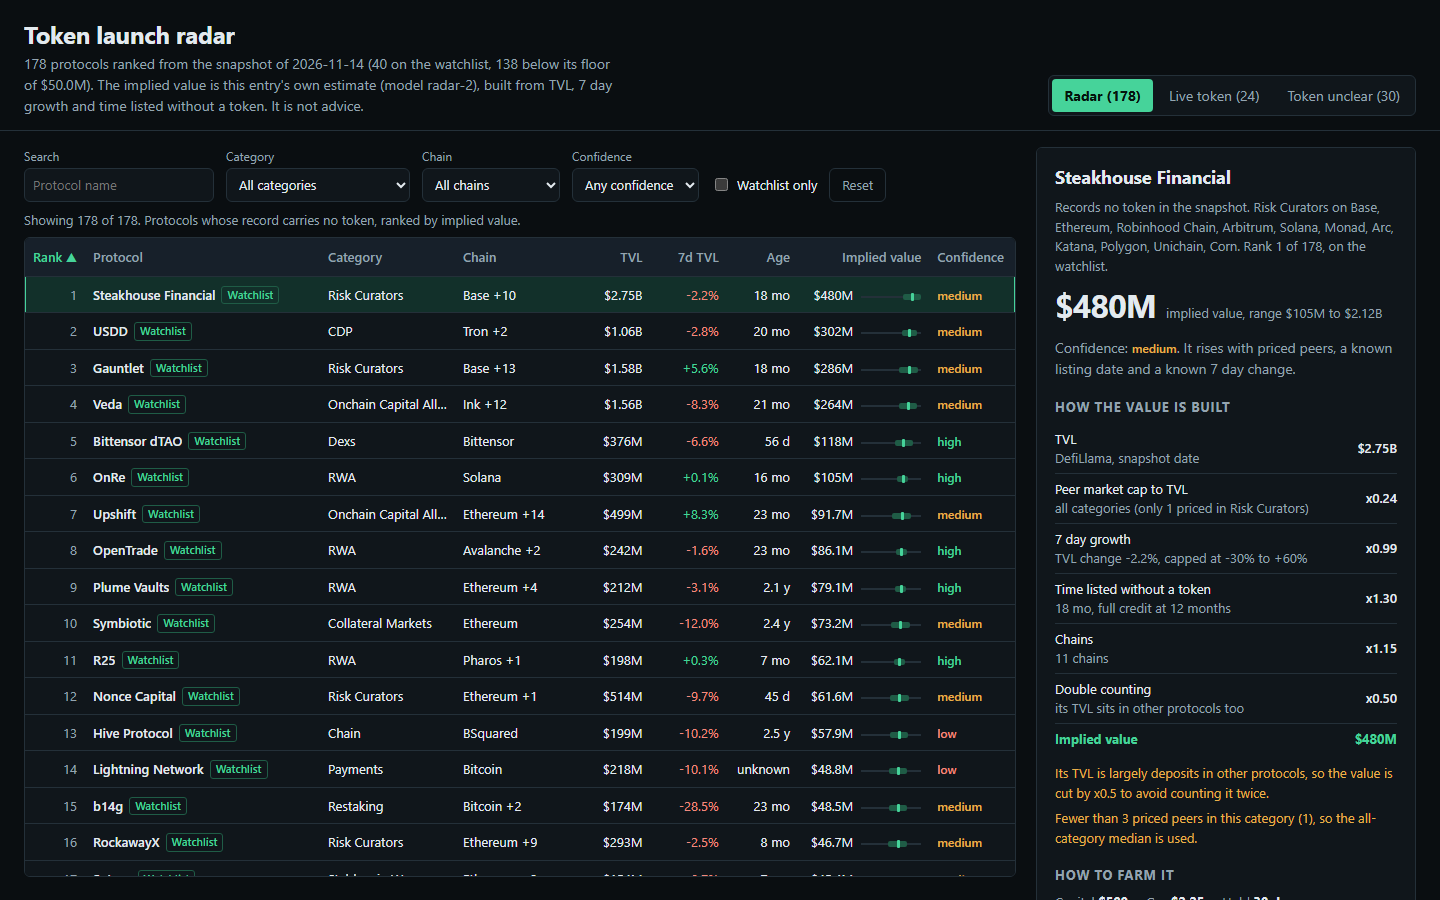
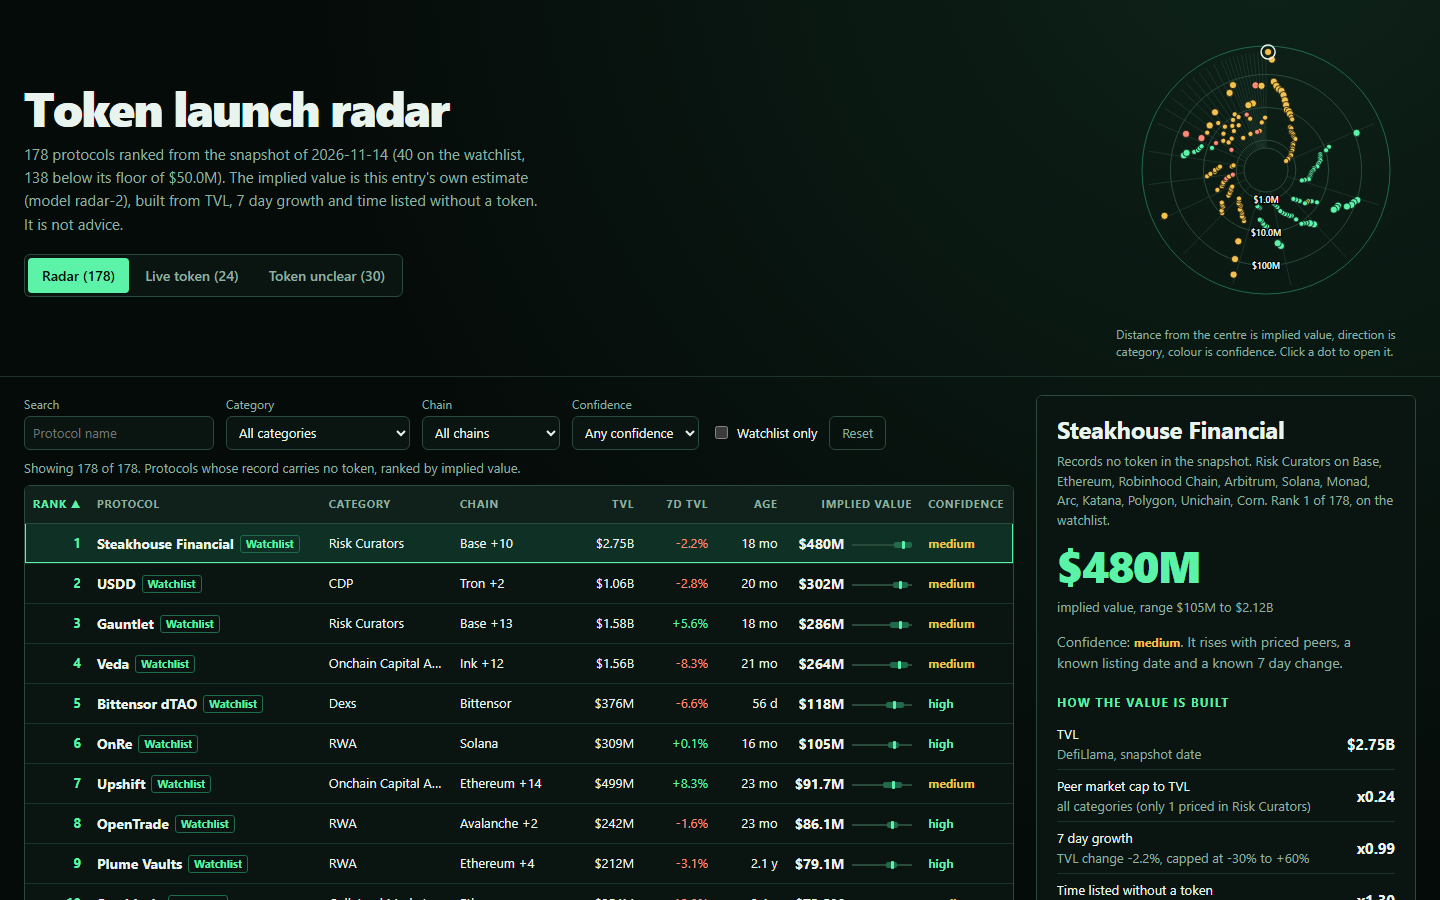
Give the dashboard a radar scope, a phosphor palette and stronger type

diff --git a/dashboard/app.css b/dashboard/app.css
@@ -1,58 +1,75 @@
 :root {
   color-scheme: dark;
-  --bg: #0a0e11;
-  --panel: #10161b;
-  --raised: #17202a;
-  --line: #243039;
-  --text: #e3eaef;
-  --muted: #94a4b0;
-  --accent: #46d39a;
-  --accent-ink: #04140d;
-  --warn: #e8b04a;
-  --bad: #f08a7e;
+  --bg: #050b09;
+  --panel: #0a1511;
+  --raised: #10201a;
+  --line: #1b3329;
+  --line-strong: #2a4a3b;
+  --text: #e8f4ed;
+  --muted: #8fb0a0;
+  --accent: #5cf2a8;
+  --accent-dim: #1f6b4b;
+  --accent-ink: #03150d;
+  --warn: #f2c14e;
+  --bad: #ff8a78;
   --r: 6px;
   --font: system-ui, -apple-system, "Segoe UI", Roboto, "Helvetica Neue", Arial, sans-serif;
   accent-color: var(--accent);
-  scrollbar-color: #2c3944 var(--bg);
+  scrollbar-color: var(--line-strong) var(--bg);
 }
 * { box-sizing: border-box; }
 html { background: var(--bg); }
-body { margin: 0; font: 14px/1.5 var(--font); color: var(--text); background: var(--bg); font-variant-numeric: tabular-nums; }
+body { margin: 0; font: 14px/1.5 var(--font); color: var(--text); background: var(--bg) radial-gradient(circle at 88% -5%, rgba(92, 242, 168, 0.1), transparent 42%); font-variant-numeric: tabular-nums; }
 ::selection { background: var(--accent); color: var(--accent-ink); }
 .muted { color: var(--muted); }
 .skip { position: absolute; left: -999px; top: 8px; background: var(--accent); color: var(--accent-ink); padding: 6px 10px; border-radius: var(--r); z-index: 5; }
 .skip:focus { left: 8px; }
 :focus-visible { outline: 2px solid var(--accent); outline-offset: 2px; }
 
-h1 { margin: 0; font-size: 1.5rem; line-height: 1.2; letter-spacing: -0.01em; font-weight: 650; }
-h2 { margin: 0 0 8px; font-size: 1.125rem; line-height: 1.3; font-weight: 650; }
-h3 { margin: 20px 0 8px; font-size: 0.8125rem; line-height: 1.3; font-weight: 650; color: var(--muted); text-transform: uppercase; letter-spacing: 0.06em; }
+h1 { margin: 0; font-size: 3rem; line-height: 1; letter-spacing: -0.035em; font-weight: 800; }
+h2 { margin: 0 0 8px; font-size: 1.5rem; line-height: 1.15; letter-spacing: -0.015em; font-weight: 750; }
+h3 { margin: 22px 0 8px; font-size: 0.75rem; line-height: 1.3; font-weight: 700; color: var(--accent); text-transform: uppercase; letter-spacing: 0.1em; }
 
-.top { display: flex; flex-wrap: wrap; align-items: flex-end; justify-content: space-between; gap: 12px 24px; padding: 20px 24px 14px; border-bottom: 1px solid var(--line); }
-.top p { margin: 4px 0 0; max-width: 78ch; }
-.tabs { display: flex; gap: 4px; background: var(--panel); padding: 3px; border-radius: var(--r); border: 1px solid var(--line); }
-.tabs button { font: inherit; color: var(--muted); background: transparent; border: 0; padding: 6px 12px; border-radius: 4px; cursor: pointer; transition: background 0.15s, color 0.15s; }
+.top { display: grid; grid-template-columns: minmax(0, 1fr) auto; align-items: center; gap: 8px 40px; padding: 20px 24px 16px; border-bottom: 1px solid var(--line); }
+.intro p { margin: 12px 0 18px; max-width: 64ch; font-size: 0.9375rem; line-height: 1.55; }
+.tabs { display: inline-flex; gap: 2px; background: var(--panel); padding: 3px; border-radius: var(--r); border: 1px solid var(--line-strong); }
+.tabs button { font: inherit; font-weight: 600; color: var(--muted); background: transparent; border: 0; padding: 7px 14px; border-radius: 4px; cursor: pointer; transition: background 0.15s, color 0.15s; }
 .tabs button:hover { color: var(--text); background: var(--raised); }
-.tabs button[aria-pressed="true"] { background: var(--accent); color: var(--accent-ink); font-weight: 650; }
+.tabs button[aria-pressed="true"] { background: var(--accent); color: var(--accent-ink); }
 
-.layout { display: grid; grid-template-columns: minmax(0, 1fr) 380px; gap: 20px; padding: 16px 24px 24px; align-items: start; }
+.scope { margin: 0; width: 300px; }
+.scope svg { display: block; width: 300px; height: 300px; }
+.scope figcaption { margin-top: 6px; font-size: 0.75rem; line-height: 1.4; max-width: 300px; }
+.scope .ring { fill: none; stroke: var(--line-strong); stroke-width: 1; }
+.scope .ring.outer { stroke: var(--accent-dim); }
+.scope .axis { stroke: var(--line); stroke-width: 1; }
+.scope .lbl { fill: var(--text); font-size: 9px; font-weight: 600; font-family: var(--font); paint-order: stroke; stroke: var(--bg); stroke-width: 3px; pointer-events: none; }
+.scope .b { cursor: pointer; stroke: var(--bg); stroke-width: 0.75; }
+.scope .b.high { fill: var(--accent); }
+.scope .b.medium { fill: var(--warn); }
+.scope .b.low { fill: var(--bad); }
+.scope .b.dim { opacity: 0.18; }
+.scope .b:hover { stroke: var(--text); stroke-width: 1.5; }
+.scope .sel { fill: none; stroke: var(--text); stroke-width: 1.5; pointer-events: none; }
+
+.layout { display: grid; grid-template-columns: minmax(0, 1fr) 380px; gap: 22px; padding: 18px 24px 26px; align-items: start; }
 .pane { min-width: 0; }
 
 .filters { display: flex; flex-wrap: wrap; gap: 10px 12px; align-items: end; margin-bottom: 8px; }
 .filters label { display: grid; gap: 3px; font-size: 0.75rem; color: var(--muted); }
-.filters input[type="search"], .filters select { font: inherit; font-size: 0.8125rem; color: var(--text); background: var(--panel); border: 1px solid var(--line); border-radius: var(--r); padding: 6px 8px; min-width: 120px; height: 34px; }
+.filters input[type="search"], .filters select { font: inherit; font-size: 0.8125rem; color: var(--text); background: var(--panel); border: 1px solid var(--line-strong); border-radius: var(--r); padding: 6px 8px; min-width: 120px; height: 34px; }
 .filters input[type="search"] { min-width: 190px; }
-.filters input:hover, .filters select:hover { border-color: #38485a; }
+.filters input:hover, .filters select:hover { border-color: var(--accent-dim); }
 .filters .check { display: flex; align-items: center; gap: 6px; height: 34px; color: var(--text); font-size: 0.8125rem; }
-.filters button { font: inherit; font-size: 0.8125rem; height: 34px; padding: 0 12px; color: var(--muted); background: transparent; border: 1px solid var(--line); border-radius: var(--r); cursor: pointer; }
-.filters button:hover { color: var(--text); border-color: #38485a; }
+.filters button { font: inherit; font-size: 0.8125rem; height: 34px; padding: 0 12px; color: var(--muted); background: transparent; border: 1px solid var(--line-strong); border-radius: var(--r); cursor: pointer; }
+.filters button:hover { color: var(--text); border-color: var(--accent-dim); }
 .count { margin: 0 0 8px; font-size: 0.8125rem; }
 
-.tablewrap { border: 1px solid var(--line); border-radius: var(--r); background: var(--panel); max-height: 640px; overflow: auto; }
+.tablewrap { border: 1px solid var(--line-strong); border-radius: var(--r); background: var(--panel); max-height: 620px; overflow: auto; }
 table { width: 100%; border-collapse: collapse; font-size: 0.8125rem; }
-th, td { padding: 8px 8px; text-align: left; white-space: nowrap; border-bottom: 1px solid var(--line); }
-th { position: sticky; top: 0; z-index: 1; background: var(--raised); font-weight: 600; color: var(--muted); padding: 0; }
-th button { font: inherit; color: inherit; background: transparent; border: 0; width: 100%; text-align: inherit; padding: 9px 8px; cursor: pointer; font-weight: 600; }
+th, td { padding: 9px 8px; text-align: left; white-space: nowrap; border-bottom: 1px solid var(--line); }
+th { position: sticky; top: 0; z-index: 1; background: var(--raised); font-weight: 700; color: var(--muted); padding: 0; font-size: 0.6875rem; text-transform: uppercase; letter-spacing: 0.07em; border-bottom: 1px solid var(--line-strong); }
+th button { font: inherit; color: inherit; background: transparent; border: 0; width: 100%; text-align: inherit; padding: 10px 8px; cursor: pointer; font-weight: 700; text-transform: inherit; letter-spacing: inherit; }
 th button:hover { color: var(--text); }
 th[aria-sort="ascending"] button, th[aria-sort="descending"] button { color: var(--accent); }
 th.num, td.num { text-align: right; }
@@ -60,52 +77,53 @@ th.num button { text-align: right; }
 tbody tr { cursor: pointer; transition: background 0.12s; }
 tbody tr:hover { background: var(--raised); }
 tbody tr:focus-visible { outline-offset: -2px; }
-tbody tr[aria-selected="true"] { background: #12302a; box-shadow: inset 0 0 0 1px var(--accent); }
-td.name { font-weight: 600; max-width: 230px; overflow: hidden; text-overflow: ellipsis; }
-td.rank { color: var(--muted); width: 1%; }
-.tag { display: inline-block; margin-left: 6px; padding: 0 5px; font-size: 0.6875rem; font-weight: 600; color: var(--accent); border: 1px solid #1f5c46; border-radius: 3px; vertical-align: 1px; }
+tbody tr[aria-selected="true"] { background: #0f3024; box-shadow: inset 0 0 0 1px var(--accent); }
+td.name { font-weight: 700; font-size: 0.875rem; max-width: 230px; overflow: hidden; text-overflow: ellipsis; }
+td.rank { color: var(--accent); font-weight: 700; width: 1%; }
+.tag { display: inline-block; margin-left: 6px; padding: 0 5px; font-size: 0.6875rem; font-weight: 700; color: var(--accent); border: 1px solid var(--accent-dim); border-radius: 3px; vertical-align: 1px; }
 .up { color: var(--accent); }
 .down { color: var(--bad); }
-.conf { font-size: 0.75rem; font-weight: 600; }
+.conf { font-size: 0.75rem; font-weight: 700; }
 .conf.high { color: var(--accent); }
 .conf.medium { color: var(--warn); }
 .conf.low { color: var(--bad); }
+td.val { font-weight: 700; font-size: 0.875rem; }
 .range { display: inline-block; position: relative; width: 60px; height: 8px; vertical-align: middle; margin-left: 8px; }
-.range::before { content: ""; position: absolute; left: 0; right: 0; top: 3px; height: 2px; background: var(--line); }
-.range i { position: absolute; top: 1px; height: 6px; background: #1f5c46; border-radius: 2px; }
+.range::before { content: ""; position: absolute; left: 0; right: 0; top: 3px; height: 2px; background: var(--line-strong); }
+.range i { position: absolute; top: 1px; height: 6px; background: var(--accent-dim); border-radius: 2px; }
 .range b { position: absolute; top: 0; width: 3px; height: 8px; margin-left: -1px; background: var(--accent); border-radius: 1px; }
 .empty { padding: 28px 16px; color: var(--muted); }
 .empty strong { color: var(--text); display: block; margin-bottom: 4px; }
+td.cat, td.chain { max-width: 130px; overflow: hidden; text-overflow: ellipsis; }
 
-.detail { position: sticky; top: 12px; max-height: calc(100vh - 24px); overflow: auto; background: var(--panel); border: 1px solid var(--line); border-radius: var(--r); padding: 18px; }
-.detail .status { margin: 0 0 12px; color: var(--muted); font-size: 0.8125rem; }
+.detail { position: sticky; top: 12px; max-height: calc(100vh - 24px); overflow: auto; background: var(--panel); border: 1px solid var(--line-strong); border-radius: var(--r); padding: 20px; }
+.detail .status { margin: 0 0 14px; color: var(--muted); font-size: 0.8125rem; }
 .value { display: flex; align-items: baseline; gap: 10px; flex-wrap: wrap; margin: 4px 0 2px; }
-.value strong { font-size: 2rem; line-height: 1.1; font-weight: 700; letter-spacing: -0.02em; }
+.value strong { font-size: 2.75rem; line-height: 1; font-weight: 800; letter-spacing: -0.03em; color: var(--accent); }
 .value span { color: var(--muted); font-size: 0.8125rem; }
 .calc { width: 100%; font-size: 0.8125rem; }
-.calc td { padding: 5px 0; white-space: normal; border-bottom: 1px solid var(--line); }
-.calc td:last-child { text-align: right; font-weight: 600; }
-.calc tr.total td { border-bottom: 0; color: var(--accent); font-weight: 700; }
+.calc td { padding: 6px 0; white-space: normal; border-bottom: 1px solid var(--line); }
+.calc td:last-child { text-align: right; font-weight: 700; font-size: 0.9375rem; }
+.calc tr.total td { border-bottom: 0; color: var(--accent); font-weight: 800; padding-top: 10px; }
 .flags { margin: 10px 0 0; padding: 0; list-style: none; display: grid; gap: 6px; font-size: 0.8125rem; color: var(--warn); }
 .steps { margin: 0; padding: 0 0 0 20px; display: grid; gap: 9px; font-size: 0.8125rem; line-height: 1.5; }
-.steps li::marker { color: var(--accent); font-weight: 700; }
-.totals { display: flex; gap: 18px; flex-wrap: wrap; margin: 4px 0 0; font-size: 0.8125rem; color: var(--muted); }
-.totals b { color: var(--text); }
+.steps li::marker { color: var(--accent); font-weight: 800; }
+.totals { display: flex; gap: 18px; flex-wrap: wrap; margin: 4px 0 10px; font-size: 0.8125rem; color: var(--muted); }
+.totals b { color: var(--text); font-size: 1rem; }
 
-.method { margin: 0 24px 40px; padding: 20px; background: var(--panel); border: 1px solid var(--line); border-radius: var(--r); display: grid; grid-template-columns: minmax(0, 1fr) minmax(0, 1fr); gap: 8px 32px; }
+.method { margin: 0 24px 40px; padding: 22px; background: var(--panel); border: 1px solid var(--line-strong); border-radius: var(--r); display: grid; grid-template-columns: minmax(0, 1fr) minmax(0, 1fr); gap: 8px 36px; }
 .method > div > p { margin: 0 0 8px; max-width: 70ch; }
 .method code { font-family: ui-monospace, "Cascadia Mono", Consolas, monospace; font-size: 0.8125rem; color: var(--accent); }
 .method .peer { width: 100%; font-size: 0.8125rem; }
 .method .peer td, .method .peer th { padding: 4px 0; position: static; background: none; white-space: normal; }
-.method .peer th { text-align: left; color: var(--muted); font-weight: 600; }
+.method .peer th { text-align: left; color: var(--muted); font-weight: 700; }
 .method .peer td:not(:first-child), .method .peer th:not(:first-child) { text-align: right; }
 
 @media (max-width: 1000px) {
+  .top { grid-template-columns: minmax(0, 1fr); padding: 18px 14px 14px; }
+  h1 { font-size: 2.25rem; }
   .layout { grid-template-columns: minmax(0, 1fr); padding: 12px 14px 20px; }
   .detail { position: static; max-height: none; }
-  .top { padding: 16px 14px 12px; }
   .method { grid-template-columns: minmax(0, 1fr); margin: 0 14px 28px; }
 }
 @media (prefers-reduced-motion: reduce) { * { transition: none !important; } }
-
-td.cat, td.chain { max-width: 130px; overflow: hidden; text-overflow: ellipsis; }

diff --git a/dashboard/app.js b/dashboard/app.js
@@ -60,6 +60,59 @@
   const lMax = Math.log10(Math.max(...highs));
   const pos = (v) => (100 * (Math.log10(Math.max(v, 1)) - lMin)) / (lMax - lMin || 1);
 
+  // ---- the radar scope: one dot per ranked protocol -------------------------------------------------
+  // Direction is the category (each category owns a slice as wide as its share of rows), distance from the
+  // centre is the implied value on a log scale. Positions come from the data only, so they never move when
+  // a filter changes: filtered-out dots just dim.
+  const esc = (s) => String(s).replace(/[&<>"]/g, (c) => ({ '&': '&amp;', '<': '&lt;', '>': '&gt;', '"': '&quot;' }[c]));
+  const SC = { c: 150, in: 22, out: 118 };
+  const scope = (function () {
+    const key = (r) => r.category || 'No category';
+    const counts = new Map();
+    R.rows.forEach((r) => counts.set(key(r), (counts.get(key(r)) || 0) + 1));
+    const cats = [...counts.keys()].sort((a, b) => counts.get(b) - counts.get(a) || a.localeCompare(b));
+    const vals = R.rows.map((r) => Math.log10(r.implied_value_usd));
+    const lo = Math.min(...vals), hi = Math.max(...vals);
+    const rad = (v) => SC.in + ((Math.log10(v) - lo) / (hi - lo || 1)) * (SC.out - SC.in);
+    const pts = new Map();
+    const seps = [];
+    let start = -Math.PI / 2;
+    for (const c of cats) {
+      const mem = R.rows.filter((r) => key(r) === c);
+      const width = (2 * Math.PI * mem.length) / R.rows.length;
+      mem.forEach((r, i) => {
+        const a = start + ((i + 0.5) / mem.length) * width;
+        pts.set(r.slug, [SC.c + rad(r.implied_value_usd) * Math.cos(a), SC.c + rad(r.implied_value_usd) * Math.sin(a)]);
+      });
+      seps.push(start);
+      start += width;
+    }
+    return { pts, seps, rad, lo, hi };
+  })();
+
+  function drawScope(list) {
+    const on = new Set(list.map((r) => r.slug));
+    let s = '<svg viewBox="0 0 300 300" focusable="false">';
+    for (const a of scope.seps) s += `<line class="axis" x1="${(SC.c + SC.in * Math.cos(a)).toFixed(1)}" y1="${(SC.c + SC.in * Math.sin(a)).toFixed(1)}" x2="${(SC.c + SC.out * Math.cos(a)).toFixed(1)}" y2="${(SC.c + SC.out * Math.sin(a)).toFixed(1)}"/>`;
+    s += `<circle class="ring" cx="${SC.c}" cy="${SC.c}" r="${SC.in}"/><circle class="ring outer" cx="${SC.c}" cy="${SC.c}" r="${SC.out + 6}"/>`;
+    let labels = '';
+    for (let d = Math.ceil(scope.lo); d <= Math.floor(scope.hi); d++) {
+      const r = scope.rad(Math.pow(10, d));
+      s += `<circle class="ring" cx="${SC.c}" cy="${SC.c}" r="${r.toFixed(1)}"/>`;
+      labels += `<text class="lbl" x="${SC.c}" y="${(SC.c + r + 3).toFixed(1)}" text-anchor="middle">${money(Math.pow(10, d))}</text>`;
+    }
+    const dot = (r, dim) => {
+      const p = scope.pts.get(r.slug);
+      return `<circle class="b ${r.confidence}${dim ? ' dim' : ''}" data-slug="${esc(r.slug)}" cx="${p[0].toFixed(1)}" cy="${p[1].toFixed(1)}" r="${r.in_watchlist ? 3.6 : 2.6}"><title>${esc(r.name)}, ${money(r.implied_value_usd)}</title></circle>`;
+    };
+    s += R.rows.filter((r) => !on.has(r.slug)).map((r) => dot(r, true)).join('');
+    s += R.rows.filter((r) => on.has(r.slug)).map((r) => dot(r, false)).join('');
+    const sp = scope.pts.get(S.sel);
+    if (sp && S.view === 'radar') s += `<circle class="sel" cx="${sp[0].toFixed(1)}" cy="${sp[1].toFixed(1)}" r="7"/>`;
+    $('scope').innerHTML = s + labels + '</svg>';
+    $('scopebox').hidden = S.view !== 'radar';
+  }
+
   const VIEWS = {
     radar: { label: 'Radar', rows: R.rows, note: 'Protocols whose record carries no token, ranked by implied value.' },
     live: { label: 'Live token', rows: R.live, note: 'Protocols whose token already trades. Shown at the market cap, never ranked by the model.' },
@@ -136,7 +189,7 @@
       case 'tvl': return h('td', { class: 'num' }, money(r.tvl_usd));
       case 'change': return h('td', { class: 'num ' + (r.change_7d > 0 ? 'up' : r.change_7d < 0 ? 'down' : '') }, pct(r.change_7d));
       case 'age': return h('td', { class: 'num' }, age(r.age_days));
-      case 'implied': return h('td', { class: 'num' }, money(r.implied_value_usd), h('span', { class: 'range', title: `${money(r.implied_low_usd)} to ${money(r.implied_high_usd)}` }, h('i', { style: `left:${pos(r.implied_low_usd).toFixed(1)}%;width:${Math.max(2, pos(r.implied_high_usd) - pos(r.implied_low_usd)).toFixed(1)}%` }), h('b', { style: `left:${pos(r.implied_value_usd).toFixed(1)}%` })));
+      case 'implied': return h('td', { class: 'num val' }, money(r.implied_value_usd), h('span', { class: 'range', title: `${money(r.implied_low_usd)} to ${money(r.implied_high_usd)}` }, h('i', { style: `left:${pos(r.implied_low_usd).toFixed(1)}%;width:${Math.max(2, pos(r.implied_high_usd) - pos(r.implied_low_usd)).toFixed(1)}%` }), h('b', { style: `left:${pos(r.implied_value_usd).toFixed(1)}%` })));
       case 'conf': return h('td', null, h('span', { class: 'conf ' + r.confidence }, r.confidence));
       case 'mcap': return h('td', { class: 'num' }, money(r.mcap_usd));
       case 'symbol': return h('td', null, r.symbol || 'n/a');
@@ -218,6 +271,7 @@
     const list = visible();
     if (!list.some((r) => r.slug === S.sel)) S.sel = list.length ? list[0].slug : '';
     drawBoard(list);
+    drawScope(list);
     drawDetail(list.find((r) => r.slug === S.sel));
     $('board').removeAttribute('aria-busy');
     save();
@@ -259,6 +313,14 @@
       const again = $('board').querySelector(`tr[data-slug="${CSS.escape(S.sel)}"]`);
       if (again) again.focus({ preventScroll: true });
     }
+  });
+  $('scope').addEventListener('click', (e) => {
+    const dot = e.target.closest('[data-slug]');
+    if (!dot) return;
+    S.sel = dot.dataset.slug;
+    draw();
+    const row = $('board').querySelector(`tr[data-slug="${CSS.escape(S.sel)}"]`);
+    if (row) row.scrollIntoView({ block: 'nearest' });
   });
   $('board').addEventListener('keydown', (e) => {
     const tr = e.target.closest('tr[data-slug]');

diff --git a/dashboard/index.html b/dashboard/index.html
@@ -9,11 +9,15 @@
 <body>
 <a class="skip" href="#board">Skip to the board</a>
 <header class="top">
-  <div>
+  <div class="intro">
     <h1>Token launch radar</h1>
     <p id="sub" class="muted"></p>
+    <div class="tabs" id="tabs" role="group" aria-label="Board view"></div>
   </div>
-  <div class="tabs" id="tabs" role="group" aria-label="Board view"></div>
+  <figure class="scope" id="scopebox">
+    <div id="scope" role="img" aria-label="Radar scope: every ranked protocol as a dot, distance from the centre is implied value, direction is category"></div>
+    <figcaption class="muted">Distance from the centre is implied value, direction is category, colour is confidence. Click a dot to open it.</figcaption>
+  </figure>
 </header>
 <main class="layout">
   <section class="pane" aria-label="Board">
